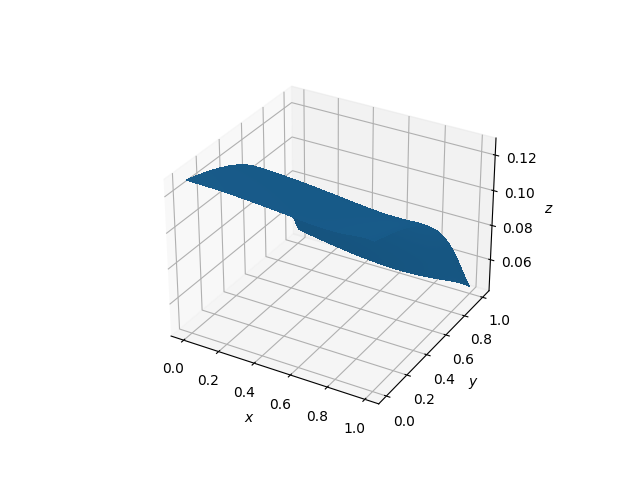
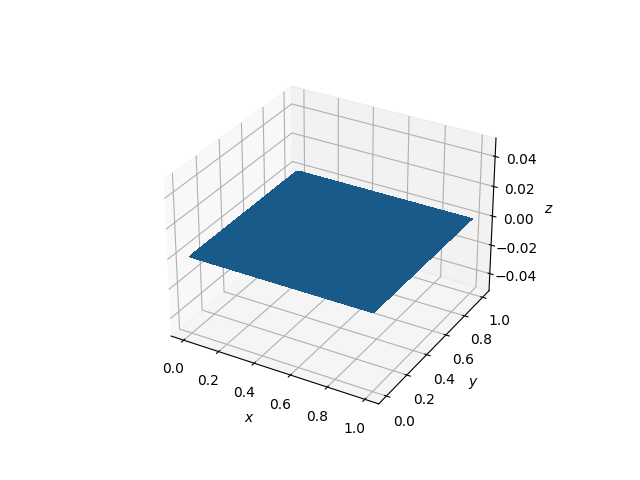
np.vectorize to make ReLU work on arrays. However, it seems to give us nonoptimal results

diff --git a/src/ffnn.py b/src/ffnn.py
@@ -44,7 +44,7 @@ class FFNN:
         self.epochs = epochs
         self.batch_size = batch_size
         self.eta = eta
-        self.activation_function = activation_function
+        self.activation_function = np.vectorize(activation_function)
         self.cost_function = cost_function
               
         # Initialize weights and biases with random values. Each weight-bias pair corresponds to a connection between
@@ -61,13 +61,18 @@ class FFNN:
     def predict(self, Xs):
         """Function that returns the output of the network, given inputs X."""
         y = []
-        for X in Xs:
+        for i, X in enumerate(Xs):
+            # Pretty progress indicator
+            print(f"\033[A\nPredicting new data: {round((i+1)/len(Xs)*100,1)}%", end="")
             tmp = self.feed_forward(X)[-1]
 
-            # Single values get stored in a list, which I don't want. This is an ugly workaround
+            # Single values also get stored in a list, which we don't want. This is an ugly workaround, but it works
             if len(tmp) == 1: tmp = tmp[0]
 
             y.append(tmp)
+
+        # Indicate done
+        print(" \033[32m✔ DONE\033[0m")
         return np.array(y).T
     
 

diff --git a/src/franke_results/franke_predict.py b/src/franke_results/franke_predict.py
@@ -7,7 +7,7 @@ parentdir = os.path.dirname(currentdir)
 sys.path.insert(0, parentdir)
 
 from franke import franke
-from utils import design_matrix, split_and_scale
+from utils import design_matrix, split_and_scale, ReLU
 from ffnn import FFNN
 
 out_dir = "../../doc/assets/"
@@ -22,7 +22,7 @@ X = design_matrix(x, y, deg)
 Y = franke(x, y, noise_sigma=0.1, noise=True)
 X_train, X_test, y_train, y_test = split_and_scale(X, Y, test_size=0.3)
 
-nn = FFNN([X.shape[1], 100, 10, 1], epochs=1)
+nn = FFNN([X.shape[1], 100, 10, 1], epochs=3)
 nn.SGD_train(list(zip(X_train, y_train)))
 
 nn_predict = nn.predict(X_test)
